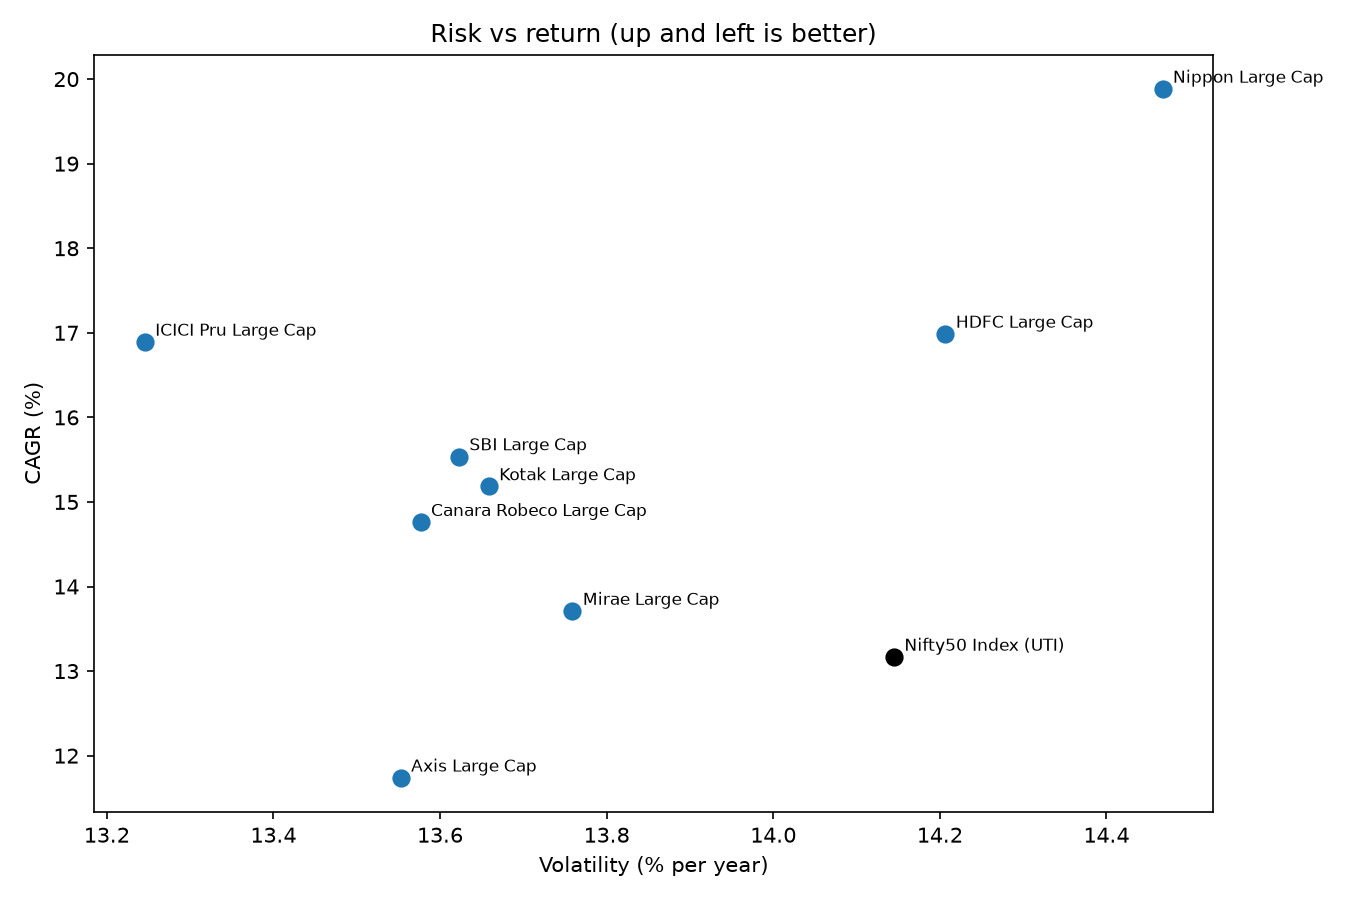
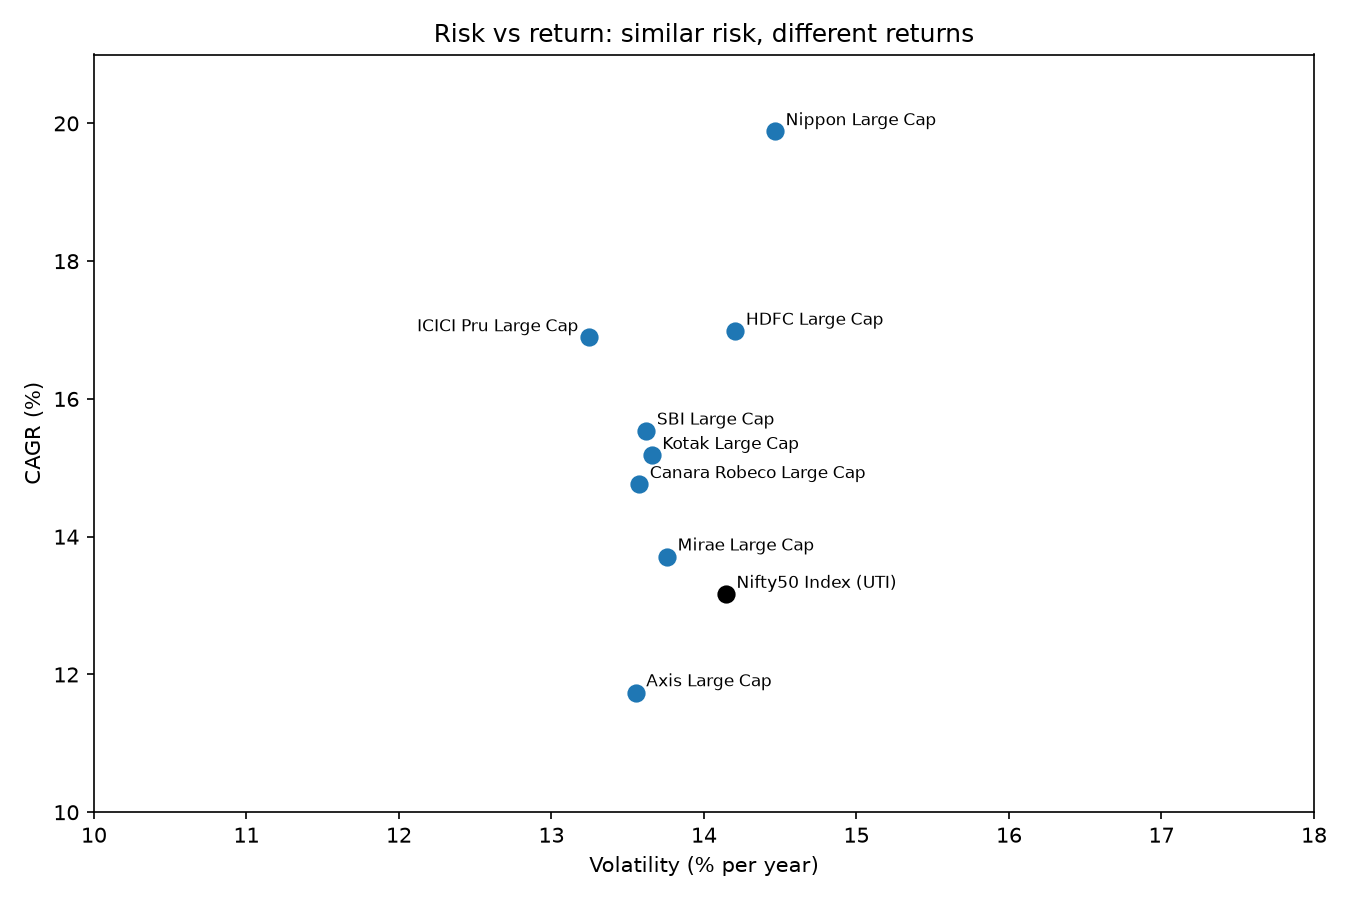
Pin date rnage, fix chart scale, expand limitations

diff --git a/python/02_analyze.py b/python/02_analyze.py
@@ -43,10 +43,13 @@ fig, ax = plt.subplots(figsize=(9, 6))
 for name, row in summary.iterrows():
     color = "black" if name == BENCH else "tab:blue"
     ax.scatter(row["Volatility"] * 100, row["CAGR"] * 100, color=color, s=60)
+    left = name == "ICICI Pru Large Cap"          # label on the left to avoid overlap
     ax.annotate(name, (row["Volatility"] * 100, row["CAGR"] * 100), fontsize=8,
-                xytext=(5, 3), textcoords="offset points")
+                xytext=(-5 if left else 5, 3), textcoords="offset points",
+                ha="right" if left else "left")
+ax.set_xlim(10, 18); ax.set_ylim(10, 21)    # same width on both axes, so risk gaps are not exaggerated
 ax.set_xlabel("Volatility (% per year)"); ax.set_ylabel("CAGR (%)")
-ax.set_title("Risk vs return (up and left is better)")
+ax.set_title("Risk vs return: similar risk, different returns")
 plt.tight_layout(); plt.savefig("../output/2_risk_return.png", dpi=150); plt.close()
 
 br = summary["Beat rate (3y windows)"].dropna().sort_values() * 100

diff --git a/python/01_get_data.py b/python/01_get_data.py
@@ -20,6 +20,6 @@ for name, code in codes.items():
                                nav=lambda x: x.nav.astype(float))
     frames.append(s.set_index("date")["nav"].rename(name))
 
-navs = pd.concat(frames, axis=1, sort=True).sort_index().loc["2020-10-01":].dropna()
+navs = pd.concat(frames, axis=1, sort=True).sort_index().loc["2020-10-01":"2026-10-13"].dropna()  # fixed window = reproducible
 navs.to_csv("../data/navs.csv")
 print("Done:", navs.shape[0], "rows x", navs.shape[1], "funds")

diff --git a/README.md b/README.md
@@ -47,12 +47,13 @@ A formatted version is in [`output/summary_formatted.xlsx`](output/summary_forma
 
 ## Method
 
+- **Returns are after fees.** NAVs are published net of each fund's expense ratio, so the comparison already includes the active funds' higher fees.
 - **Data:** daily NAVs from [mfapi.in](https://www.mfapi.in/), a free API over AMFI data. Direct Plan – Growth option for every fund, so fee structures are comparable.
 - **Period:** 1 Oct 2020 – 13 Oct 2026 (6 years, about 1,500 trading days).
 - **Metrics:**
   - **CAGR:** average yearly return
   - **Volatility:** standard deviation of daily returns × √252
-  - **Sharpe ratio:** (CAGR − 6.5%) ÷ volatility. The 6.5% approximates the 91-day T-bill yield.
+  - **Sharpe ratio:** (CAGR − 6.5%) ÷ volatility. The 6.5% approximates the recent 91-day T-bill yield; T-bill yields were lower (about 3–4%) in 2020–21, so all Sharpe ratios are slightly understated. The ranking does not change, because every fund uses the same rate.
   - **Max drawdown:** the worst fall from a previous peak
   - **Beat rate:** the share of all rolling 3-year periods in which the fund's return beat the index fund's
 
@@ -60,7 +61,8 @@ A formatted version is in [`output/summary_formatted.xlsx`](output/summary_forma
 
 - **Survivorship bias.** I only picked funds that exist today. Funds that closed or merged after doing badly are missing, which flatters active funds.
 - **Selection.** These are 8 large, well-known funds, not every large-cap fund. Funds often become well known *because* they did well.
-- **One market cycle.** 6 years is short. The 3-year windows overlap heavily, so the 100% beat rates are far less impressive than they look.
+- **One market cycle.** 6 years is short. The 730 rolling 3-year windows overlap heavily (neighbouring windows share almost all their days), so the 100% beat rates are far less impressive than they look.
+- **Start date.** The window starts in Oct 2020, during the post-COVID recovery. A different start date could change the ranking.
 - **Possible tilt, not skill.** SEBI lets large-cap funds hold up to 20% outside the top 100 stocks, and 2020–2026 was strong for mid and small caps. Part of the outperformance may come from that tilt rather than stock picking. *Not tested here.*
 - **Benchmark.** I used an index fund, which carries its own small costs, not the pure Nifty 50 Total Return Index.
 - **Ignored:** taxes, exit loads, and the timing effects of SIP (monthly) investing.
@@ -71,7 +73,7 @@ A formatted version is in [`output/summary_formatted.xlsx`](output/summary_forma
 
 ```bash
 py -m venv .venv
-.venv/Scripts/python.exe -m pip install -r requirements.txt
+./.venv/Scripts/python.exe -m pip install -r requirements.txt
 cd python
 ../.venv/Scripts/python.exe 01_get_data.py    # downloads NAVs to data/navs.csv
 ../.venv/Scripts/python.exe 02_analyze.py     # writes output/summary.xlsx and 3 charts
